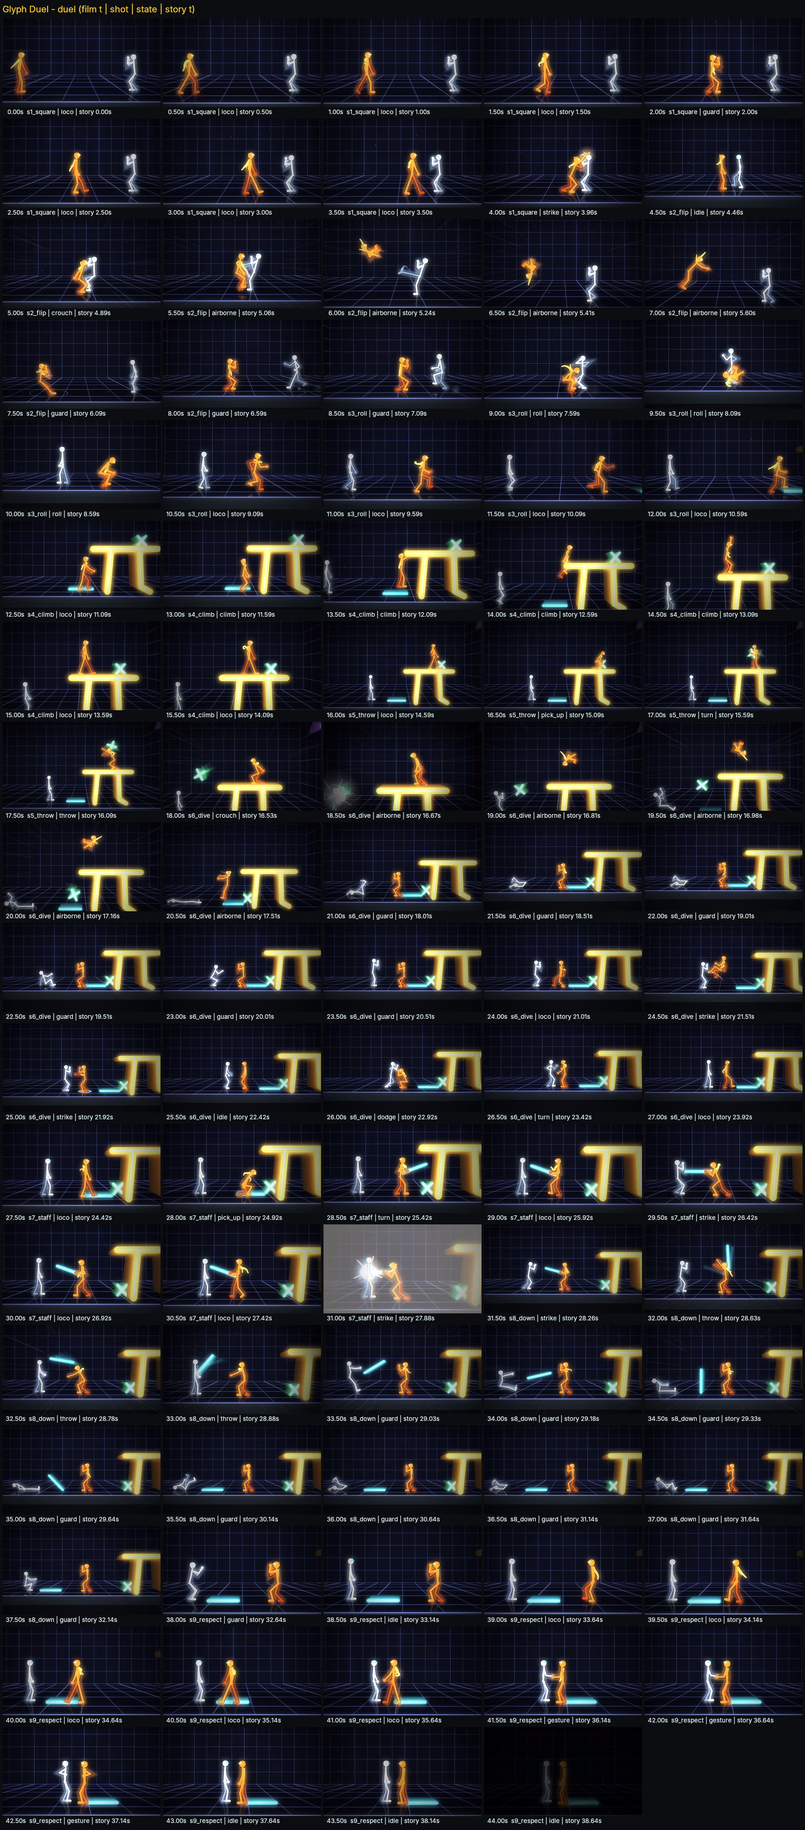
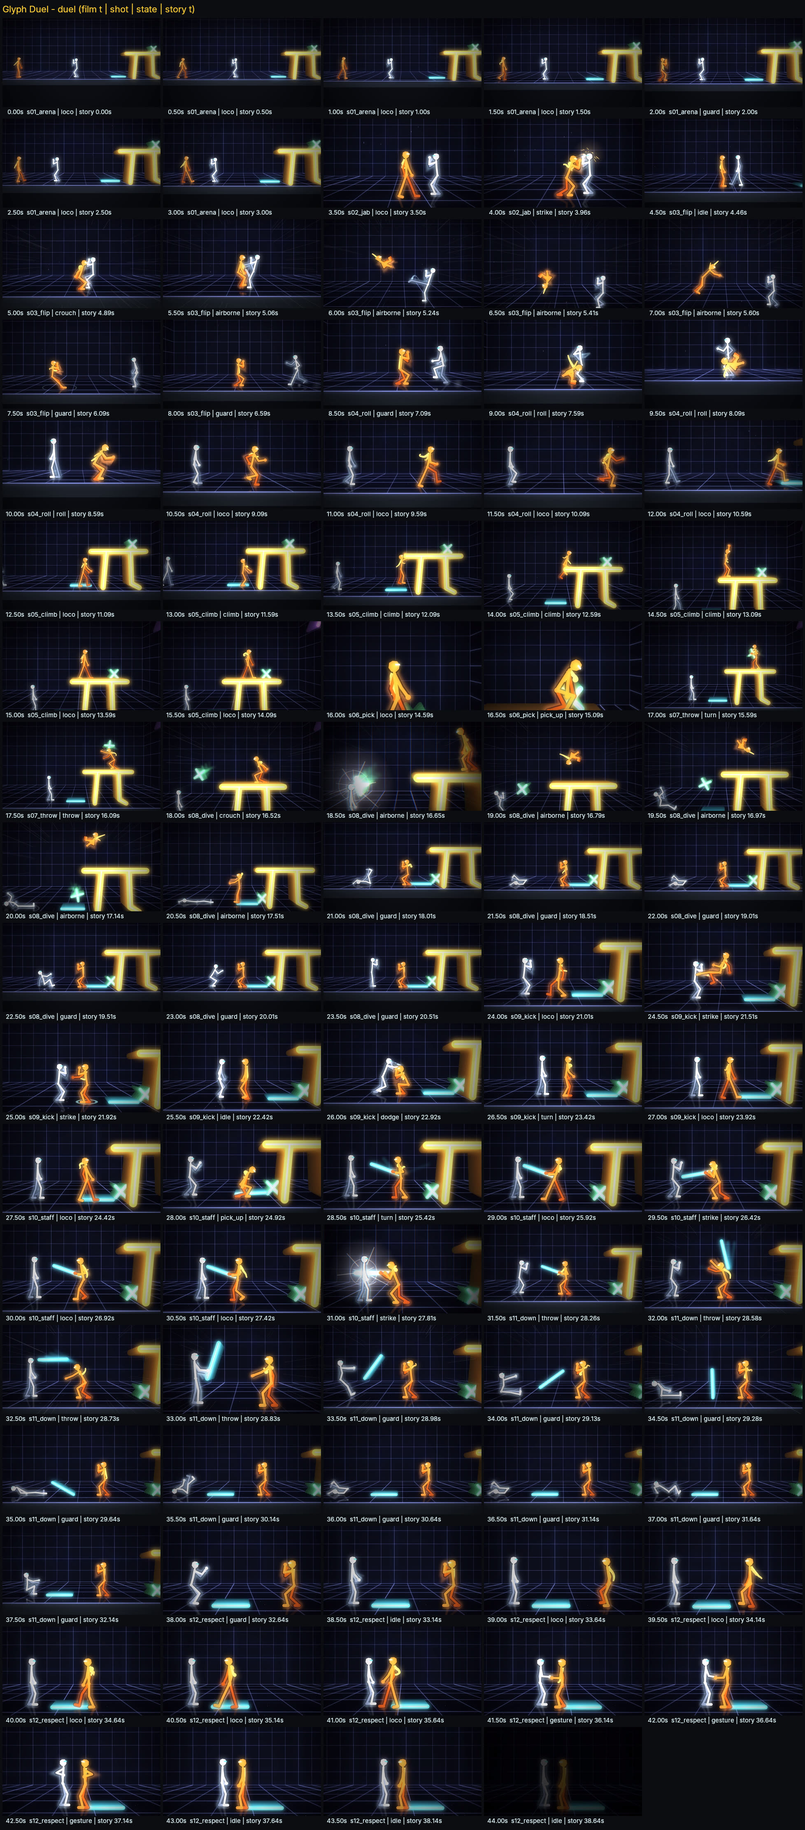
Milestone 3 revision 1: spacing, depth cues, softer flash, expressive camera
From the owner's M3 review:
- Strikes can engage from a set distance; jab and hook restaged further out;
  deeper duck (jab torso gap 40->49, duck 47->59 units)
- Depth cues: floor shadows at each character's lane; farther lane darker,
  nearer brighter
- Impact flash dimmer (0.4->0.26) and radial, centred on the blow
- Camera: follow tightens while the subject is airborne (flips tracked);
  knockdown blows get a close-up during the hit-stop; Glyph Duel restaged
  in 12 shots with deliberate scales
- QA 58 PASS / 1 SKIP; 190 tests pass

Claude-Session: https://claude.ai/code/session_01YA3Kaze6hcM5rUk9w9AFoi

Changed region(s): [[0.0, 0.0, 0.998, 1.0]]

diff --git a/apex-animation-engine/examples/build_glyph_duel.py b/apex-animation-engine/examples/build_glyph_duel.py
@@ -30,7 +30,7 @@ def project(duration: float = 50.0) -> dict:
     acts = [
         # 1. square up, jab blocked, back flip over the roundhouse
         k(type="walk_to", target_x=-240, speed=150), k(type="guard", duration=0.4),
-        k(type="strike", target="char:rho", move="jab"),
+        k(type="strike", target="char:rho", move="jab", distance=116),  # from the edge of reach: the guard stops it
         k(type="wait_for", until="next:strike_start@rho"),
         k(type="jump_to", target_x=-470, height=110, flip="back"),
         k(type="guard", until="next:strike_start@rho"),
@@ -69,7 +69,7 @@ def project(duration: float = 50.0) -> dict:
         r(type="wait_for", until="next:hurt@rho"),
         r(type="guard", until="next:block_hit@rho"),
         r(type="idle", duration=0.75),
-        r(type="strike", target="char:kai", move="hook", power=0.8),
+        r(type="strike", target="char:kai", move="hook", power=0.8, distance=112),
         r(type="wait_for", until="next:pick_up@kai"),
         r(type="guard", duration=0.2),
         r(type="wait_for", until="next:strike_start@kai"),
@@ -83,25 +83,34 @@ def project(duration: float = 50.0) -> dict:
     follow = lambda tgt, vh, inc=(), **kw: dict(**{**dict(mode="follow", target=tgt, view_height=vh, offset=[0, 40], lead=0.12,
                                                          stiffness=4.0, include=list(inc)), **kw})
     both = [f"char:{R}"]
+    # deliberate shot scales: wide to establish and for travel, medium two-shots for exchanges, close shots only where
+    # a detail carries the story (the pick-up of the symbol, the reconciliation)
     shots = [
-        dict(id="s1_square", kind="medium", start=0, end=2, description="they square up; the jab is blocked", camera=follow(K, 400, both)),
-        dict(id="s2_flip", kind="wide", start=2, end=4, cut_on="event:strike_start@rho", cut_offset=-0.3,
-             description="RHO's roundhouse; KAI back-flips over it and lands in guard", camera=follow(K, 470, both, shake=1.0)),
-        dict(id="s3_roll", kind="medium", start=4, end=6, cut_on="event:roll_start@kai", cut_offset=-0.5,
-             description="the cross; KAI rolls under it and past", camera=follow(K, 430, both, shake=1.0)),
-        dict(id="s4_climb", kind="wide", start=6, end=8, cut_on="event:climb_start@kai", cut_offset=-0.6,
-             description="up the pi", camera=follow(K, 480, ["obstacle:pi"])),
-        dict(id="s5_throw", kind="wide", start=8, end=10, cut_on="event:pick_up@kai", cut_offset=-0.6,
-             description="the times sign, thrown down at RHO",
-             camera=dict(mode="static", center=[470, 250], view_height=640, shake=1.0)),
-        dict(id="s6_dive", kind="wide", start=10, end=12, cut_on="event:flip@kai", cut_offset=-0.3,
-             description="front flip off the bar, into a flying kick; duck the counter", camera=follow(K, 580, both, shake=1.2)),
-        dict(id="s7_staff", kind="medium", start=12, end=14, cut_on="event:pick_up@kai", cut_offset=-0.8,
-             description="the minus sign as a staff", camera=follow(K, 430, both, shake=1.3)),
-        dict(id="s8_down", kind="medium", start=14, end=16, cut_on="event:throw_start@kai", cut_offset=-0.3,
-             description="thrown: RHO goes down", camera=follow(K, 560, both, shake=1.4)),
-        dict(id="s9_respect", kind="medium", start=16, end=duration, cut_on="event:stood_up@rho", cut_offset=-0.8,
-             description="he gets up; a fist bump", camera=follow(K, 380, both), fade_out=0.9),
+        dict(id="s01_arena", kind="wide", start=0, end=2, description="the arena: they square up, the pi looms",
+             camera=follow(K, 620, both + ["obstacle:pi"], stiffness=2.5)),
+        dict(id="s02_jab", kind="medium", start=2, end=4, cut_on="event:strike_start@kai", cut_offset=-0.45,
+             description="two-shot: the jab is blocked", camera=follow(K, 360, both, shake=1.0)),
+        dict(id="s03_flip", kind="wide", start=4, end=6, cut_on="event:strike_start@rho", cut_offset=-0.3,
+             description="the roundhouse; KAI back-flips over it (tracked through the air) and lands in guard",
+             camera=follow(K, 520, both, shake=1.0)),
+        dict(id="s04_roll", kind="medium", start=6, end=8, cut_on="event:roll_start@kai", cut_offset=-0.5,
+             description="low two-shot: the cross; KAI rolls under it, in front of RHO", camera=follow(K, 400, both, offset=[0, 5], shake=1.0)),
+        dict(id="s05_climb", kind="wide", start=8, end=10, cut_on="event:climb_start@kai", cut_offset=-0.6,
+             description="up the pi", camera=follow(K, 560, ["obstacle:pi"])),
+        dict(id="s06_pick", kind="close", start=10, end=12, cut_on="event:pick_up@kai", cut_offset=-0.45,
+             description="close: he takes the times sign from the bar", camera=follow(K, 230, focus="upper", stiffness=3.0)),
+        dict(id="s07_throw", kind="wide", start=12, end=14, cut_on="event:throw_start@kai", cut_offset=-0.15,
+             description="wide: thrown down at RHO", camera=dict(mode="static", center=[470, 250], view_height=640, shake=1.0)),
+        dict(id="s08_dive", kind="wide", start=14, end=16, cut_on="event:flip@kai", cut_offset=-0.25,
+             description="the front flip off the bar, tracked down", camera=follow(K, 560, both, shake=1.2)),
+        dict(id="s09_kick", kind="medium", start=16, end=18, cut_on="event:strike_start@kai[move=flying_kick]", cut_offset=-0.4,
+             description="two-shot: flying kick blocked, the hook ducked", camera=follow(K, 400, both, shake=1.2)),
+        dict(id="s10_staff", kind="medium", start=18, end=20, cut_on="event:pick_up@kai", cut_offset=-0.8,
+             description="the minus sign as a staff", camera=follow(K, 380, both, shake=1.3)),
+        dict(id="s11_down", kind="medium", start=20, end=22, cut_on="event:throw_start@kai", cut_offset=-0.3,
+             description="thrown: RHO goes down (the camera closes in on the blow)", camera=follow(K, 460, both, shake=1.4)),
+        dict(id="s12_respect", kind="close", start=22, end=duration, cut_on="event:stood_up@rho", cut_offset=-0.8,
+             description="he gets up; a fist bump, framed close", camera=follow(K, 330, both), fade_out=0.9),
     ]
     return {
         "schema_version": "0.1", "id": "glyph_duel", "title": "Glyph Duel", "fps": 24, "width": 1920, "height": 1080, "seed": 31,

diff --git a/apex-animation-engine/src/apex/render/pipeline.py b/apex-animation-engine/src/apex/render/pipeline.py
@@ -213,8 +213,14 @@ def film_camera(c, warp, tf: float, tfx) -> object:
         sx += amp * math.sin(age * 2 * math.pi * 23.0)
         sy += amp * 0.7 * math.cos(age * 2 * math.pi * 19.0)
         if tfx.punch_in and h.power >= 0.9 and h.kind != "block_hit":
-            env = min(1.0, age / 0.03) * math.exp(-max(0.0, age - h.film) / 0.25)
-            zoom = min(zoom, 1.0 - 0.1 * min(1.0, h.power / 1.4) * env)
+            env = min(1.0, age / 0.03) * math.exp(-max(0.0, age - h.film) / (0.45 if h.heavy else 0.25))
+            if h.heavy and h.point is not None:  # a knockdown: the camera closes in on the blow for the held frame
+                zoom = min(zoom, 1.0 - 0.3 * env)
+                fx_ = (h.point[0] - c.cx) * 0.45 * env
+                fy_ = (h.point[1] - c.cy) * 0.45 * env
+                c = replace(c, cx=c.cx + fx_, cy=c.cy + fy_)
+            else:
+                zoom = min(zoom, 1.0 - 0.1 * min(1.0, h.power / 1.4) * env)
     if tfx.punch_in:
         zoom *= 1.0 - 0.12 * warp.slow_weight(tf)
     return replace(c, shx=c.shx + sx, shy=c.shy + sy, view_h=c.view_h * zoom)
@@ -229,7 +235,8 @@ def screen_effects(warp, tf: float, tfx) -> dict:
         if 0 <= age < h.film + 0.3:
             s["vignette"] = max(s.get("vignette", 0.0), min(1.0, 0.5 + 0.35 * h.power) * (1.0 if age < h.film else 1 - (age - h.film) / 0.3))
             if h.power >= 1.0 and h.kind != "block_hit" and age < 2.0 / 24.0:  # heavy blows only, two frames at most
-                s["flash"] = max(s.get("flash", 0.0), 0.4 if age < 1.0 / 24.0 else 0.18)
+                s["flash"] = max(s.get("flash", 0.0), 0.26 if age < 1.0 / 24.0 else 0.12)
+                s["at"] = h.t
     return s
 
 
@@ -369,10 +376,14 @@ def render_scene(project: ProjectSpec, scene_id: str, out_path: str, samples: in
                 smears = {cid: an.pose_at(max(0.0, t - SMEAR_DT)) for cid, an in res.animators.items()}
                 ghosts = prop_ghosts(res, t)
             hold = warp.holding(tf)
+            scr = screen_effects(warp, tf, tfx)
+            if "at" in scr:
+                scr["world"] = next((e.data["point"] for e in res.events if abs(e.t - scr["at"]) < 0.07 and e.type in ("hit", "prop_hit")
+                                     and "point" in e.data), None)
             if samples <= 1:
                 frame = renderer.render(rt.evaluate(t), film_camera(cam.at(t), warp, tf, tfx), red_flash(res.events, t), fx, fade,
                                         motion_trails(res, t), fx_t=tf if not warp.is_identity() else None, smears=smears,
-                                        prop_ghosts=ghosts, screen=screen_effects(warp, tf, tfx))
+                                        prop_ghosts=ghosts, screen=scr)
             else:
                 acc = None
                 sh = cam.shot_at(t)

diff --git a/apex-animation-engine/src/apex/render/skia_renderer.py b/apex-animation-engine/src/apex/render/skia_renderer.py
@@ -600,6 +600,12 @@ class SkiaRenderer:
         near, far, vis = hex_rgb(st.body_color), hex_rgb(st.far_color), hex_rgb(st.visor_color)
         if tint is not None:
             near = far = vis = tint
+        else:  # aerial perspective: a farther lane is a little darker, a nearer one a little brighter (depth reads at a glance)
+            dzc = clamp(self.depth.get(cid, 0.0) / 60.0, -1.0, 1.0)
+            if dzc > 0:
+                near, far = mix(near, self.bg, 0.28 * dzc), mix(far, self.bg, 0.28 * dzc)
+            elif dzc < 0:
+                near, far = mix(near, (255, 255, 255), 0.14 * -dzc), mix(far, (255, 255, 255), 0.1 * -dzc)
         lw = st.limb_width * k
 
         def stroke(pts, rgb, w):
@@ -897,10 +903,11 @@ class SkiaRenderer:
 
     def _contact_shadow(self, c: skia.Canvas, cid: str, pose: Pose) -> None:
         px, py = pose.root
+        dz = self.depth.get(cid, 0.0)  # the shadow lies at the character's own depth lane (a depth cue)
         for d, at, horiz in ((py, (px, 0.0), True), (self.rh - py, (px, self.rh), True), (self.hw - px, (self.hw - 0.5, py), False),
                              (px + self.hw, (-self.hw + 0.5, py), False)):
             if 0 <= d < 260:
-                p = self.P(at[0], at[1], 4)
+                p = self.P(at[0], at[1], 4 + dz)
                 if horiz:
                     self._shadow(c, p, 70 * p[2], 0.55 * (1 - d / 260), squash=0.22)
                 else:
@@ -1110,8 +1117,15 @@ class SkiaRenderer:
             sh = skia.GradientShader.MakeRadial(skia.Point(W / 2, H / 2), H * 0.95, [col((0, 0, 0), 0.0), col((0, 0, 0), 0.55 * vig)], [0.45, 1.0])
             c.drawRect(skia.Rect(0, 0, W, H), skia.Paint(Shader=sh))
         fl = s.get("flash", 0.0)
-        if fl > 0.01:  # impact flash (bounded for photosensitivity: QA counts them)
-            c.drawRect(skia.Rect(0, 0, W, H), skia.Paint(Color=col((255, 250, 240), min(0.45, fl)), BlendMode=skia.BlendMode.kScreen))
+        if fl > 0.01:  # impact flash: brightest at the blow, fading toward the edges, so the characters keep their detail
+            fx_, fy_ = W / 2, H / 2
+            if s.get("world") is not None:  # centred on the blow
+                px, py, _ = self.P(*s["world"], 0.0)
+                fx_, fy_ = W / 2 + px, H / 2 + py
+            sh = skia.GradientShader.MakeRadial(skia.Point(fx_, fy_), H * 0.75,
+                                                [col((255, 250, 240), min(0.3, fl)), col((255, 250, 240), 0.35 * min(0.3, fl)),
+                                                 col((255, 250, 240), 0.0)], [0.0, 0.35, 1.0])
+            c.drawRect(skia.Rect(0, 0, W, H), skia.Paint(Shader=sh, BlendMode=skia.BlendMode.kScreen))
 
     def _post(self, c: skia.Canvas, red: float) -> None:
         if self.bloom:

diff --git a/apex-animation-engine/tests/test_time_fx.py b/apex-animation-engine/tests/test_time_fx.py
@@ -63,6 +63,19 @@ def test_effects_and_sounds_move_to_the_film_clock():
     assert abs(ev[0].t - (3.0 + 4 / 24)) < 1e-6 and any(e.type == "slowmo" for e in ev)
     tfx = TimeFxSpec()
     s = screen_effects(w, w.film_at(2.0) + 0.01, tfx)
-    assert s["flash"] > 0.3 and s["vignette"] > 0  # a heavy blow flashes on its first frame
+    assert 0.2 < s["flash"] <= 0.3 and s["vignette"] > 0  # a heavy blow flashes on its first frame (bounded brightness)
     assert screen_effects(w, w.film_at(2.0) + 0.2, tfx).get("flash", 0.0) == 0.0  # and only briefly
     assert screen_effects(w, w.film_at(6.5), tfx)["lines"] > 0.9  # speed lines in slow motion
+
+
+def test_knockdown_hold_closes_in_on_the_blow():
+    from apex.camera.director import CameraState
+    from apex.render.pipeline import film_camera
+    tfx = TimeFxSpec()
+    w = TimeWarp(10.0, holds=[Hold(2.0, 5 / 24, 1.5, "hit", (300.0, 120.0), heavy=True), Hold(6.0, 4 / 24, 1.2, "hit", (0.0, 100.0))])
+    base = CameraState(0.0, 150.0, 500.0, 0.0, "s")
+    c = film_camera(base, w, w.film_at(2.0) + 0.1, tfx)
+    assert c.view_h < 0.78 * 500.0 and c.cx > 100.0  # a knockdown: pushed in, re-centred toward the blow
+    c2 = film_camera(base, w, w.film_at(6.0) + 0.1, tfx)
+    assert 0.85 * 500.0 < c2.view_h < 500.0 and abs(c2.cx) < 1e-6  # an ordinary heavy blow: a small punch-in only
+    assert film_camera(base, w, 4.5, tfx).view_h == 500.0  # nothing between blows

diff --git a/apex-animation-engine/src/apex/render/timewarp.py b/apex-animation-engine/src/apex/render/timewarp.py
@@ -26,6 +26,8 @@ class Hold:
     film: float  # how long the frame holds (film seconds)
     power: float
     kind: str
+    point: Optional[Tuple[float, float]] = None  # where the blow lands (world)
+    heavy: bool = False  # a knockdown-class blow (the camera closes in on it)
 
 
 @dataclass
@@ -122,7 +124,9 @@ def build_warp(scene, events, duration: float, fps: int) -> TimeWarp:
             if holds and abs(holds[-1].t - e.t) < 0.06:  # one blow can emit several events (hit, hurt, prop_hit)
                 holds[-1].film = max(holds[-1].film, frames / fps)
                 continue
-            holds.append(Hold(e.t, frames / fps, p, e.type))
+            holds.append(Hold(e.t, frames / fps, p, e.type, tuple(e.data["point"]) if "point" in e.data else None))
+    for h in holds:  # knockdown-class blows (the engine's own verdict, not a guess from the power)
+        h.heavy = any(e.type == "knockdown" and abs(e.t - h.t) < 0.06 for e in events)
     slows: List[Slow] = []
     for sm in tf.slowmo:
         hit = next((e for e in events if matches(sm.at.split(":", 1)[1] if sm.at.startswith(("event:", "next:")) else sm.at, e)), None)

diff --git a/apex-animation-engine/src/apex/motion/combat.py b/apex-animation-engine/src/apex/motion/combat.py
@@ -102,7 +102,7 @@ class CombatMixin:
             oc = self.others[other]
             d = oc.s - self.s
             direction = 1.0 if d >= 0 else -1.0
-            want = 0.9 * self._strike_reach(a.move)
+            want = a.distance if a.distance else 0.9 * self._strike_reach(a.move)  # `distance`: engage from further out
             if abs(d) > want + 14.0 or abs(d) < want - 48.0:
                 if self._go(t, a, oc.s - direction * want):
                     return
@@ -174,7 +174,7 @@ class CombatMixin:
             else:
                 down = _smooth(tau / 0.12) - _smooth((tau - dur + 0.2) / 0.2)
                 self.h = self.stand_h - 0.46 * self.stand_h * down
-                self.s = I["s0"] - self.facing * 0.2 * self.stand_h * down  # sit back, away from the blow
+                self.s = I["s0"] - self.facing * 0.3 * self.stand_h * down  # sit back, away from the blow
             if tau >= dur:
                 self.h = self.stand_h
                 self.dodging = None

diff --git a/apex-animation-engine/tests/test_combat.py b/apex-animation-engine/tests/test_combat.py
@@ -112,3 +112,13 @@ def test_combat_scene_passes_qa():
     names = {c.name: c for c in rep.checks}
     assert names["strike_contact"].status == "PASS" and names["fighters_do_not_overlap"].status == "PASS"
     assert rep.passed, rep.summary()
+
+
+def test_strike_distance_engages_from_further_out():
+    near = _run([{"character": "kai", "type": "strike", "target": "char:rho", "move": "jab"},
+                 {"character": "rho", "type": "guard", "duration": 3}], duration=3.0)
+    far = _run([{"character": "kai", "type": "strike", "target": "char:rho", "move": "jab", "distance": 116},
+                {"character": "rho", "type": "guard", "duration": 3}], duration=3.0)
+    gap = lambda rt: min(abs(a.s - b.s) for a, b in zip(rt.result.controllers["kai"].records, rt.result.controllers["rho"].records))
+    assert gap(far) > gap(near) + 6.0
+    assert _ev(far, "blocked") and not _ev(far, "whiff")  # still within reach: the guard stops it

diff --git a/apex-animation-engine/src/apex/scene/schema.py b/apex-animation-engine/src/apex/scene/schema.py
@@ -269,7 +269,8 @@ class ActionSpec(Strict):
     fulcrum: Optional[str] = None  # use_lever: "prop:<fulcrum id>"
     until: Optional[str] = None  # use_lever / struggle / wait_for: "event:<type>" or "event:<type>@<character>"
     gesture: Optional[Literal["fist_bump", "shoulder_pat", "wave"]] = None
-    distance: Optional[float] = None  # crawl_out: how far to crawl; gesture: the gap between the two characters
+    distance: Optional[float] = None  # crawl_out: how far to crawl; gesture: the gap between the two characters; roll: how far;
+    # strike: the distance (pelvis to pelvis) to engage from (default 0.9 x the move's reach)
     emotion: Optional[str] = None  # acting colour for clips (see motion/library.py EMOTIONS)
     move: Optional[StrikeMove] = None  # strike: which technique
     power: float = Field(1.0, gt=0, le=2.0)  # strike: how hard (with the move's own weight it picks the reaction)

diff --git a/apex-animation-engine/src/apex/qa/inspector.py b/apex-animation-engine/src/apex/qa/inspector.py
@@ -851,7 +851,7 @@ class Inspector:
         from ..render.pipeline import screen_effects
         tfx = self.rt.scene.time_fx
         n = int(round(w.film_duration * self.fps))
-        flashes = [k / self.fps for k in range(n) if screen_effects(w, k / self.fps, tfx).get("flash", 0.0) > 0.3]
+        flashes = [k / self.fps for k in range(n) if screen_effects(w, k / self.fps, tfx).get("flash", 0.0) > 0.2]
         worst = max((sum(1 for f in flashes if t0 <= f < t0 + 1.0) for t0 in flashes), default=0)
         out.append(Check("flash_safety", "PASS" if worst <= 3 else "FAIL", float(worst), 3.0,
                          "bright full-screen flashes in any one second (photosensitivity guideline: at most 3)"))

diff --git a/apex-animation-engine/src/apex/camera/director.py b/apex-animation-engine/src/apex/camera/director.py
@@ -128,6 +128,10 @@ class CameraDirector:
         for i, t in enumerate(ts):
             tgt = np.array(self._target(cam, sh, float(t)))
             if cam.mode in ("follow", "track_x"):
+                w = cam.stiffness
+                if cam.mode == "follow" and cam.target:  # an airborne subject (a flip, a fall): the operator tracks it tighter
+                    vy = abs(self.velocity(cam.target, float(t))[1])
+                    w = cam.stiffness * (1.0 + 1.6 * clamp((vy - 150.0) / 450.0, 0.0, 1.0))
                 a = w * w * (tgt - x) - 2 * w * v  # critically damped follow
                 v = v + a * dt
                 x = x + v * dt

diff --git a/apex-animation-engine/docs/CINEMATIC_REPORT.md b/apex-animation-engine/docs/CINEMATIC_REPORT.md
@@ -39,6 +39,23 @@ Combined with the Milestone 2 closure, as requested in the owner's final review 
 - `docs/media/glyph_duel_m3_contact_sheet.jpg`
 - `docs/evidence/glyph_duel_m3_qa.json`
 
+## Revision 1: the owner's Milestone 3 review
+
+| Review note | Change | Result |
+|---|---|---|
+| **Crowded jab (about 4 s) and duck (about 26 s)** | A strike can set the distance it engages from (`distance`). The jab now starts at the edge of reach (116, against 107) and is still stopped by the guard; the hook starts from 112. The duck sits back 0.3 of body height (was 0.2) | At contact, jab: pelvis gap 83 → **92**, torso gap 40 → **49**, head gap 32 → **40**. Duck: pelvis 106 → **119**, torso 47 → **59**, head 35 → **46** (world units). **Still close contact on screen:** a guarded jab and a hook passing over a ducked head are contact moves, and the tighter two-shots magnify them |
+| **Depth changes must be visually obvious** | **Floor shadows at each character's own depth lane**, so a character in a nearer lane casts its shadow nearer. **Distance tinting:** the farther lane is drawn darker, the nearer one brighter. This adds to the existing perspective scale and draw order | During the roll in front, the nearer KAI is larger, brighter and lower on screen, with his shadow in front of RHO's |
+| **The flash at about 32.8 s washes out the scene** | Peak brightness 0.4 → **0.26** (second frame 0.12). The flash is now **radial, centred on the blow**, fading toward the edges so the characters keep their detail. The QA count uses a lower "bright" threshold (0.2) | `flash_safety`: at most 1 bright flash in any second |
+| **Camera direction: track flips, change scale deliberately, close-ups only when they help** | **Airborne tracking:** a follow camera tightens up to 2.6× while its subject is in the air. **Knockdown close-up:** on knockdown-class blows (the engine's own `knockdown` verdict), the camera closes in 30% during the hit-stop and re-centres on the blow. **Restaged shots:** 12 instead of 9, each scale chosen for a reason: wide to establish and for travel; medium two-shots for exchanges; close shots only for the pick-up of the symbol and the reconciliation | `subject_in_frame` 0.977. Tests: `test_knockdown_hold_closes_in_on_the_blow` and `test_strike_distance_engages_from_further_out` |
+| *Rescue* container collision | Stays open (PR #7) | — |
+
+**Revised film QA: 58 PASS / 1 SKIP / 0 WARN / 0 FAIL. 190 tests pass.**
+
+Evidence:
+- `docs/media/glyph_duel_m3r_key_moments.jpg`
+- `docs/media/glyph_duel_m3_contact_sheet.jpg`
+- `docs/evidence/glyph_duel_m3_qa.json`
+
 ## Engine corrections found while building it
 
 - **Kicking leg in the clearance check:** the check counted the kicking leg as body. It is now treated like the arms (the weapon) during its own strike segment only.
@@ -48,7 +65,7 @@ Combined with the Milestone 2 closure, as requested in the owner's final review 
 
 ## Known limits
 
-- **Crowding is improved, not solved.** The jab block (film 4.0 s) and the duck (film 26.1 s) still read tight on screen. The torsos keep their gap (measured), but the extended arm and the crouched body overlap the opponent's silhouette. The readability check excludes a crouched body, so it does not cover the duck.
+- **Crowding is improved, not solved.** After revision 1 the jab and the duck have 11–25% more space, but they still read as close contact (an arm over the opponent's guard or head). The readability check excludes a crouched body, so it does not cover the duck.
 
 - **Smears are drawn, not simulated:** they show where a limb was 1/48 s earlier, not true motion-blur integration. The draft preset renders 1 sample per frame.
 - **The chromatic split is uniform:** a channel offset across the whole frame, not a lens model.

diff --git a/apex-animation-engine/README.md b/apex-animation-engine/README.md
@@ -141,6 +141,6 @@ src/apex/
   api/       FastAPI app + storage
 examples/    project JSON files (milestone scenes); build_gravity_switch_1d.py / build_foundry_flip.py / build_rescue.py regenerate them
 scripts/     motion_test.py (original-vs-improved motion comparison), interaction_diagnostics.py
-tests/       pytest suite (188 tests)
+tests/       pytest suite (190 tests)
 docs/        architecture, schema, reference analysis, milestone status, roadmap, evidence
 ```
